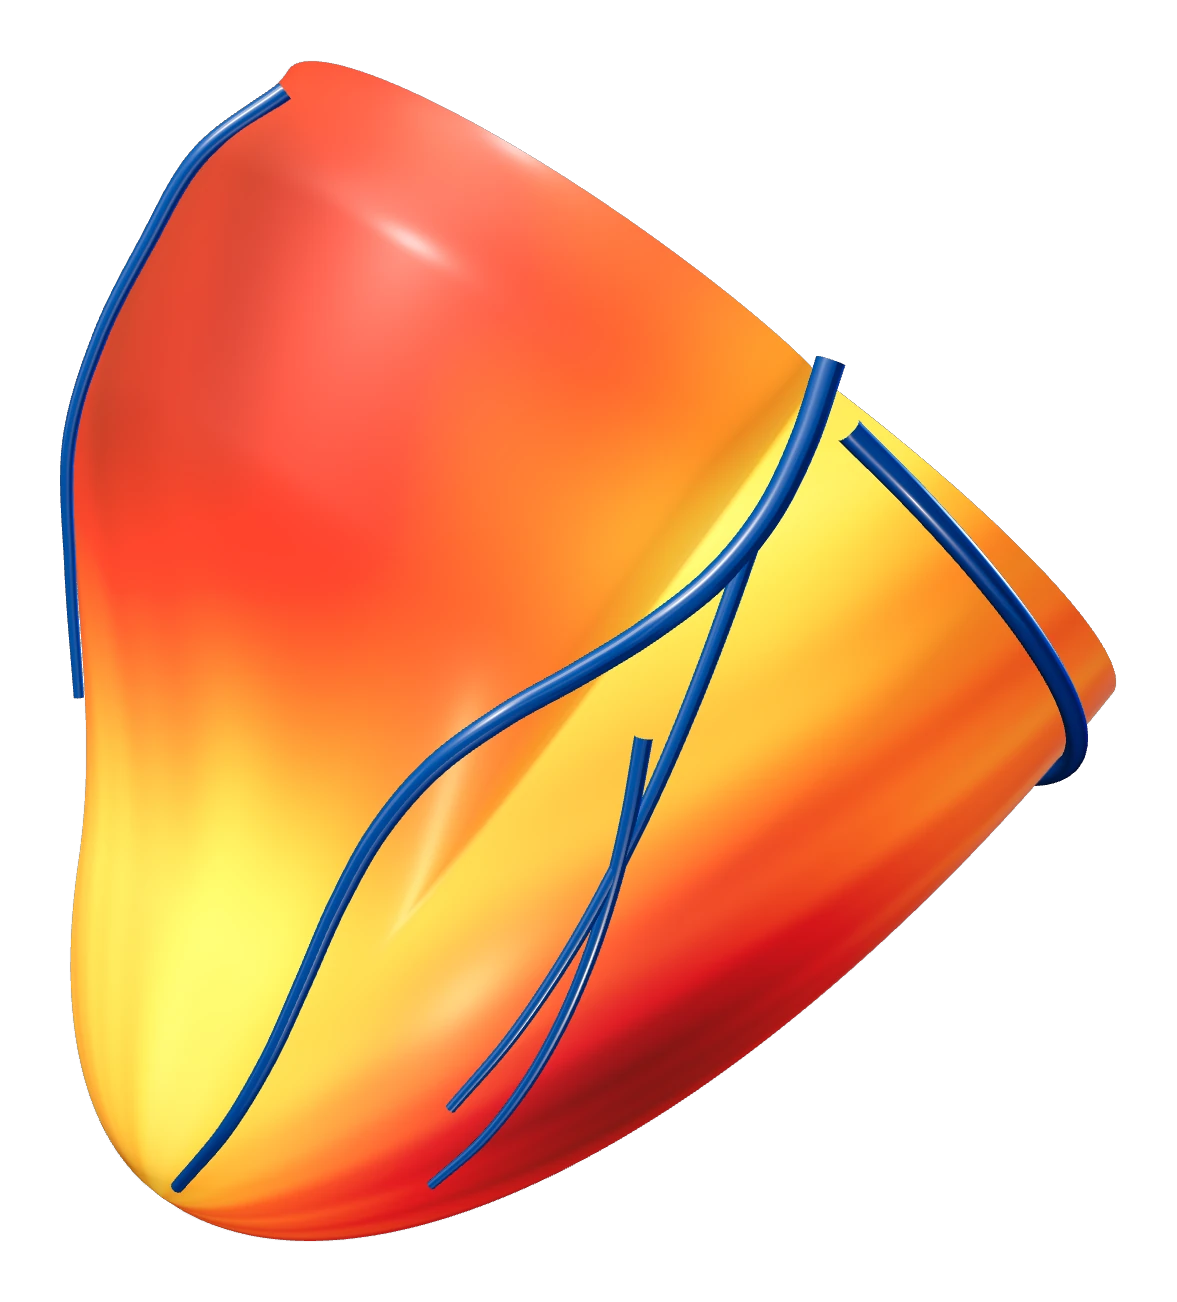
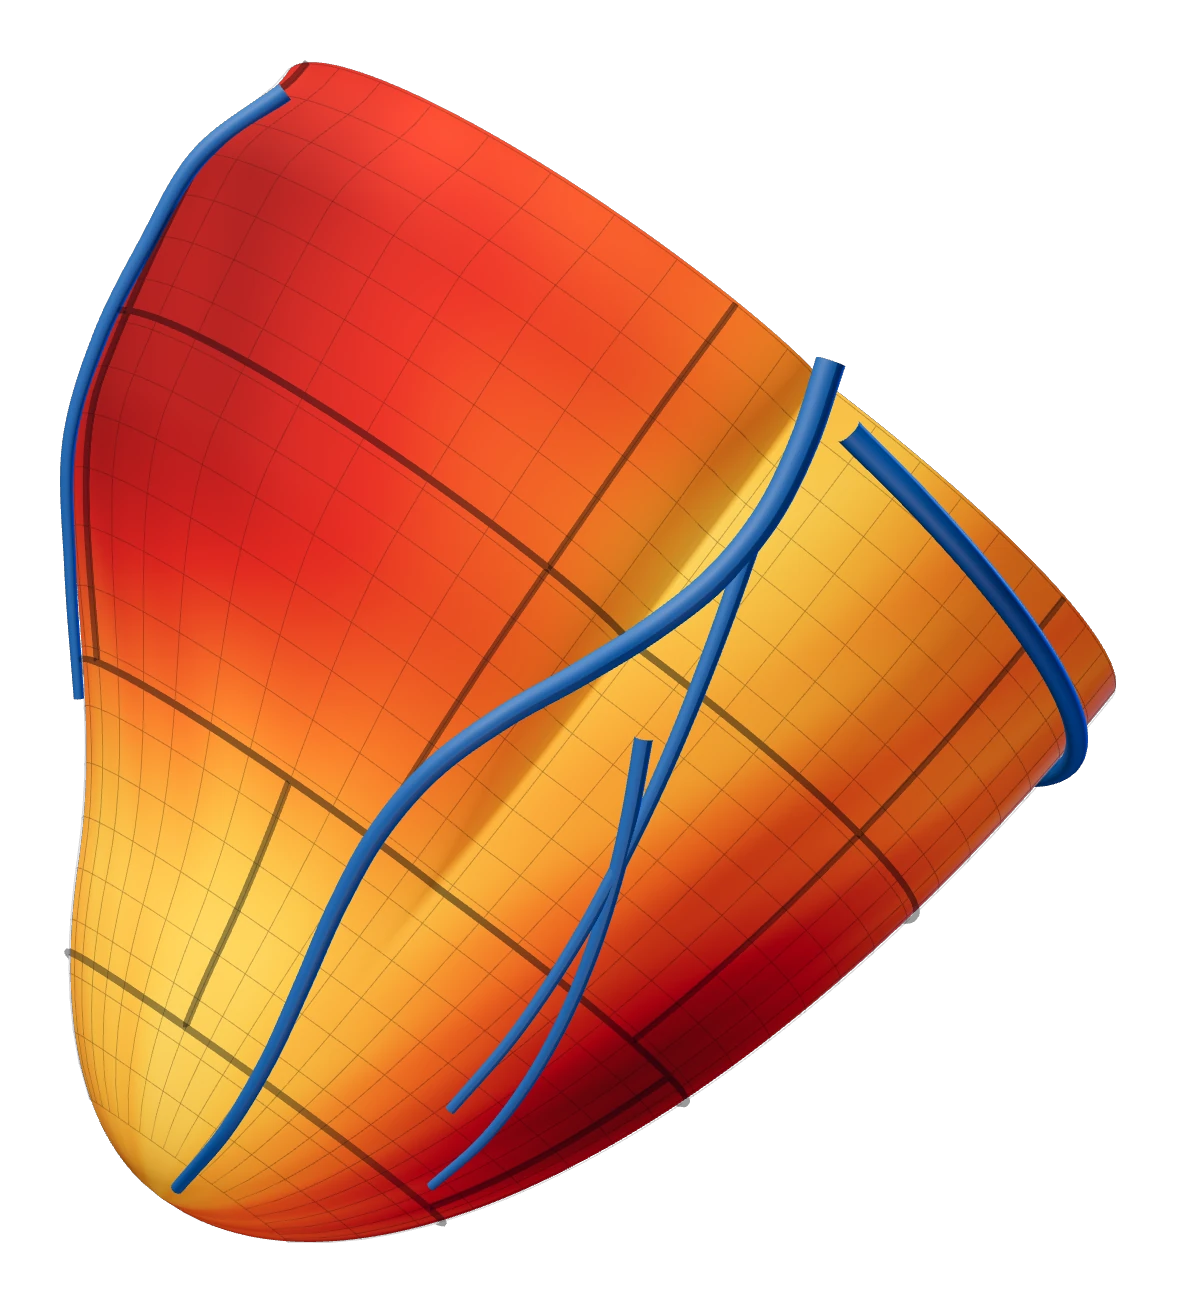
syntermed: smaller matte perfusion hero with 17-segment boundaries and display mesh; phone hero shown whole
Claude-Session: https://claude.ai/code/session_014388NGoYGzZRF6jn5fbCJw

diff --git a/_kit/home/syntermed/render.js b/_kit/home/syntermed/render.js
@@ -11,7 +11,7 @@ const PAGE=`<!doctype html><html><body style="margin:0;background:transparent">
 import * as THREE from 'three';
 const W=${W},H=${H};
 const rn=new THREE.WebGLRenderer({antialias:true,alpha:true,preserveDrawingBuffer:true,premultipliedAlpha:false});
-rn.setPixelRatio(1);rn.setSize(W,H);rn.setClearColor(0x000000,0);rn.toneMapping=THREE.ACESFilmicToneMapping;rn.toneMappingExposure=.9;
+rn.setPixelRatio(1);rn.setSize(W,H);rn.setClearColor(0x000000,0);rn.toneMapping=THREE.ACESFilmicToneMapping;rn.toneMappingExposure=.95;
 rn.outputColorSpace=THREE.SRGBColorSpace;document.body.appendChild(rn.domElement);
 const sc=new THREE.Scene();
 const pm=new THREE.PMREMGenerator(rn);const env=new THREE.Scene();env.background=new THREE.Color(0x03070d);
@@ -26,14 +26,14 @@ function n3(x,y,z){return Math.sin(x*3.1+y*1.7)*Math.cos(z*2.3-y*.9)*.5+Math.sin
 /* perfusion 0..1 at angle a (0 = anterior), height y (0 apex .. YB base) */
 const DEF_A=.75,DEF_Y=1.05;
 function perf(a,y){
-  let v=.73+.08*n3(Math.cos(a)*2,y,Math.sin(a)*2)+.05*Math.cos(a*2+.7)+.03*n3(Math.cos(a)*5,y*2.4,Math.sin(a)*5);
+  let v=.74+.06*n3(Math.cos(a)*2,y,Math.sin(a)*2)+.04*Math.cos(a*2+.7)+.025*n3(Math.cos(a)*5,y*2.4,Math.sin(a)*5);
   v-=.06*smooth(2.2,3.05,y);                      /* the base reads a little lower, as on real maps */
   let da=Math.atan2(Math.sin(a-DEF_A),Math.cos(a-DEF_A)),dy=y-DEF_Y;
   v-=.42*Math.exp(-(da*da)/(2*.55*.55)-(dy*dy)/(2*.8*.8));
   return Math.max(.05,Math.min(1,v));
 }
 /* nuclear "heat" scale: black - deep red - red - orange - gold - pale yellow - white */
-const ST=[[0,[8,2,4]],[.22,[90,6,10]],[.42,[196,30,18]],[.6,[240,110,20]],[.76,[250,196,30]],[.9,[255,236,140]],[1,[255,252,232]]];
+const ST=[[0,[10,4,6]],[.22,[78,12,14]],[.42,[168,38,22]],[.6,[214,102,28]],[.76,[228,168,44]],[.9,[238,206,112]],[1,[244,228,170]]];
 function heat(t){for(let i=1;i<ST.length;i++){if(t<=ST[i][0]){const a=ST[i-1],b=ST[i],k=(t-a[0])/(b[0]-a[0]);return a[1].map((c,j)=>Math.pow((c+(b[1][j]-c)*k)/255,2.2))}}return ST[ST.length-1][1].map(c=>Math.pow(c/255,2.2))}
 function shellR(y,A,B){const c=3.55,u=(c-y)/B;return A*Math.sqrt(Math.max(0,1-u*u))}
 /* a gentle anatomical asymmetry: the free wall bulges, the septum is flatter */
@@ -50,10 +50,10 @@ function surface(A,B,y0,inner){
   const g=new THREE.BufferGeometry();g.setAttribute('position',new THREE.Float32BufferAttribute(pos,3));g.setAttribute('color',new THREE.Float32BufferAttribute(col,3));g.setIndex(idx);g.computeVertexNormals();return g}
 const heart=new THREE.Group();
 const OA=1.42,OB=3.55,IA=.86,IB=2.85;
-const mOut=new THREE.MeshPhysicalMaterial({vertexColors:true,roughness:.58,metalness:0,clearcoat:.32,clearcoatRoughness:.3,sheen:.2,sheenColor:new THREE.Color('#ffe0a0'),envMapIntensity:.9});
+const mOut=new THREE.MeshPhysicalMaterial({vertexColors:true,roughness:.9,metalness:0,envMapIntensity:.55});
 heart.add(new THREE.Mesh(surface(OA,OB,0,false),mOut));
 /* emissive glow layer: the uptake itself seems to glow, as a SPECT render does */
-const glow=new THREE.Mesh(surface(OA*1.002,OB*1.001,0,false),new THREE.MeshBasicMaterial({vertexColors:true,transparent:true,opacity:.22,blending:THREE.AdditiveBlending,depthWrite:false}));heart.add(glow);
+const glow=new THREE.Mesh(surface(OA*1.002,OB*1.001,0,false),new THREE.MeshBasicMaterial({vertexColors:true,transparent:true,opacity:.1,blending:THREE.AdditiveBlending,depthWrite:false}));heart.add(glow);
 heart.add(new THREE.Mesh(surface(IA,IB,3.55-IB,true),new THREE.MeshPhysicalMaterial({vertexColors:true,roughness:.6,side:THREE.DoubleSide,envMapIntensity:.4})));
 /* the cut rim at the base, joining the two walls */
 (function(){const pos=[],col=[],idx=[];for(let i=0;i<=NA;i++){const a=i/NA*Math.PI*2,ro=shellR(YB,OA,OB)*asym(a),ri=shellR(YB,IA,IB)*asym(a),c=heat(perf(a,YB)).map(v=>v*.8);
@@ -62,7 +62,7 @@ heart.add(new THREE.Mesh(surface(IA,IB,3.55-IB,true),new THREE.MeshPhysicalMater
   const g=new THREE.BufferGeometry();g.setAttribute('position',new THREE.Float32BufferAttribute(pos,3));g.setAttribute('color',new THREE.Float32BufferAttribute(col,3));g.setIndex(idx);g.computeVertexNormals();
   heart.add(new THREE.Mesh(g,new THREE.MeshPhysicalMaterial({vertexColors:true,roughness:.5,side:THREE.DoubleSide})))})();
 /* coronary arteries on the epicardium, in the logo blue: the LAD down the anterior groove, the circumflex around the base, diagonals */
-const vMat=new THREE.MeshPhysicalMaterial({color:0x1557b0,roughness:.3,metalness:.1,clearcoat:1,clearcoatRoughness:.08,envMapIntensity:1.4});
+const vMat=new THREE.MeshPhysicalMaterial({color:0x1a5aa8,roughness:.6,metalness:0,envMapIntensity:.7});
 function on(a,y,lift){const r=(shellR(y,OA,OB)*asym(a)*(1+.42*rvw(a,y)))+lift;return new THREE.Vector3(Math.sin(a)*r,y,Math.cos(a)*r)}
 function vessel(pts,r0,r1){const cv=new THREE.CatmullRomCurve3(pts);const N=260,g=new THREE.TubeGeometry(cv,N,1,20,false);
   const p=g.attributes.position,c=new THREE.Vector3();
@@ -74,6 +74,19 @@ vessel(Array.from({length:12},(_,k)=>on(AL+.12+k*.22,2.97-k*.03,.035)),.042,.026
 vessel(Array.from({length:8},(_,k)=>on(AL+.08+k*.07,2.6-k*.27,.03)),.03,.016);
 vessel(Array.from({length:8},(_,k)=>on(AL+.18+k*.1,1.9-k*.2,.03)),.028,.014);
 vessel(Array.from({length:7},(_,k)=>on(AL-1.2-k*.05,2.9-k*.3,.03)),.03,.016);
+
+/* the 17-segment model drawn on the surface: rings between basal / mid / apical / apex, and the segment meridians */
+const bMat=new THREE.MeshBasicMaterial({color:0x07111f,transparent:true,opacity:.4});
+function onS(a,y,lift){const r=(shellR(y,OA,OB)*asym(a)*(1+.42*rvw(a,y)))+lift;return new THREE.Vector3(Math.sin(a)*r,y,Math.cos(a)*r)}
+function line(pts,rad,mat,closed){const cv=new THREE.CatmullRomCurve3(pts,closed);heart.add(new THREE.Mesh(new THREE.TubeGeometry(cv,Math.max(64,pts.length*3),rad,6,closed),mat))}
+[2.1,1.2,.45].forEach(y=>line(Array.from({length:180},(_,k)=>onS(k/180*Math.PI*2,y,.012)),.011,bMat,true));
+for(let k=0;k<6;k++){const a=k*Math.PI/3+Math.PI/6;line(Array.from({length:30},(_,i)=>onS(a,1.2+i/29*(3.04-1.2),.012)),.011,bMat,false)}
+for(let k=0;k<4;k++){const a=k*Math.PI/2+Math.PI/4;line(Array.from({length:20},(_,i)=>onS(a,.45+i/19*(1.2-.45),.012)),.011,bMat,false)}
+/* a fine display mesh, as the software's 3D surface view shows */
+(function(){const P=[],NM=48,NR=22;
+  for(let k=0;k<NM;k++){const a=k/NM*Math.PI*2;for(let i=0;i<40;i++){const y0=.12+i/40*(3.04-.12),y1=.12+(i+1)/40*(3.04-.12);P.push(onS(a,y0,.006),onS(a,y1,.006))}}
+  for(let j=0;j<NR;j++){const y=.12+j/(NR-1)*(3.04-.12);for(let k=0;k<120;k++){P.push(onS(k/120*Math.PI*2,y,.006),onS((k+1)/120*Math.PI*2,y,.006))}}
+  const g=new THREE.BufferGeometry().setFromPoints(P);heart.add(new THREE.LineSegments(g,new THREE.LineBasicMaterial({color:0x07111f,transparent:true,opacity:.16})))})();
 /* pose: apex down and toward the viewer's left, base tilted up and away, so the open base just shows */
 heart.position.y=-1.75;const holder=new THREE.Group();holder.add(heart);sc.add(holder);
 holder.rotation.set(.16,0,0);holder.rotateOnWorldAxis(new THREE.Vector3(0,0,1),-.62);holder.rotateOnWorldAxis(new THREE.Vector3(0,1,0),.5);

diff --git a/_kit/src/syntermed.src.html b/_kit/src/syntermed.src.html
@@ -823,6 +823,10 @@ div.mh-row{grid-template-columns:minmax(0,4fr) minmax(0,3fr) minmax(0,5fr) 24px}
 .pipe .tg b{color:var(--accL)}
 .pipe .tg i{color:var(--blL)}
 .mh-row .mh-sum:empty{opacity:0}
+/* phones: the scrim starts below the heart, just above the eyebrow, so the subject shows whole (CW keeps the text band clear) */
+@media (max-width:860px){.hero::before{background:linear-gradient(180deg,rgba(var(--inkr),0) 0%,rgba(var(--inkr),0) 36%,rgba(var(--inkr),.9) 43%,rgba(var(--inkr),.95) 72%,var(--ink) 100%)}}
+@media (max-width:860px){#field{-webkit-mask-image:linear-gradient(180deg,#000 0,#000 38svh,transparent 43svh);mask-image:linear-gradient(180deg,#000 0,#000 38svh,transparent 43svh)}}
+@media (max-width:860px){.fieldbg{background:#07111f}}
 </style>
 </head>
 </head>
@@ -1095,7 +1099,7 @@ function unmask(s){if(!s)return;(s.masks||[]).forEach(function(m){m.style.overfl
    top band and the ink takes over before the text (CW). ================= */
 var field=(function(){
   var cv=$("#field"),c=cv.getContext("2d"),dpr=1,w=0,h=0,running=false,raf=0,t0=performance.now(),shown=false;
-  var IN={v:1},dim=1,dimT=1,SP={v:0},G=null,img=new Image(),ok=false,AR=1177/1302;
+  var IN={v:1},dim=1,dimT=1,SP={v:0},G=null,img=new Image(),ok=false,AR=1177/1303;
   var BG="#07111f";
   img.decoding="async";img.onload=function(){ok=true;if(!running)frame(true)};img.src="hero.webp";
   function sm(x){x=x<0?0:x>1?1:x;return x*x*(3-2*x)}
@@ -1114,8 +1118,9 @@ var field=(function(){
       return {mob:1,side:side,cw:cw,U:U,ih:ih,iw:iw,kx:w*.5,ky:top+ih/2,bh:U};
     }
     var tr=textRight()||side+cw*.46,x0=Math.max(tr+110,side+cw*.5),x1=w-side;
-    var top=hd+Math.max(28,h*.05),bot=h-Math.max(36,h*.06);
-    var ih=Math.max(40,Math.min(bot-top,(x1-x0)/AR,h*.78)),iw=ih*AR;
+    var top=hd+Math.max(28,h*.05),bot=h-Math.max(80,h*.09);
+    /* ~70% of the open area (coordinator review): whole, with clear ink below it and well clear of the H1 */
+    var ih=Math.max(40,Math.min((bot-top)*.78,(x1-x0)/AR*.8,h*.56)),iw=ih*AR;
     /* centre of the open area, pulled toward ~68% of the width when there is room */
     var kx=Math.max(x0+iw/2,Math.min(x1-iw/2,side+cw*.7)),ky=top+(bot-top)/2;
     return {mob:0,side:side,cw:cw,ih:ih,iw:iw,kx:kx,ky:ky,bh:h,x0:x0};
@@ -1146,7 +1151,7 @@ var field=(function(){
         var lv=c.createLinearGradient(0,0,G.x0+60,0);[[0,.5],[.3,.42],[.55,.26],[.75,.12],[.9,.04],[1,0]].forEach(function(q){lv.addColorStop(q[0],"rgba(4,10,19,"+q[1]+")")});c.fillStyle=lv;c.fillRect(0,0,w,h);
         var bv=c.createLinearGradient(0,h*.72,0,h);bv.addColorStop(0,"rgba(7,17,31,0)");bv.addColorStop(1,"rgba(7,17,31,.7)");c.fillStyle=bv;c.fillRect(0,h*.72,w,h*.28+1);
       }else{
-        var mv=c.createLinearGradient(0,G.bh-56,0,G.bh+2);mv.addColorStop(0,"rgba(7,17,31,0)");mv.addColorStop(1,"rgba(7,17,31,1)");c.fillStyle=mv;c.fillRect(0,G.bh-56,w,58);
+        var mv=c.createLinearGradient(0,G.bh-150,0,G.bh+2);[[0,0],[.3,.12],[.55,.4],[.8,.78],[1,1]].forEach(function(q){mv.addColorStop(q[0],"rgba(7,17,31,"+q[1]+")")});c.fillStyle=mv;c.fillRect(0,G.bh-150,w,152);
         c.fillStyle=BG;c.fillRect(0,G.bh+2,w,h-G.bh);
       }
       if(!shown){shown=true;requestAnimationFrame(function(){requestAnimationFrame(function(){cv.classList.add("ready")})})}

diff --git a/syntermed/index.html b/syntermed/index.html
@@ -830,6 +830,10 @@ div.mh-row{grid-template-columns:minmax(0,4fr) minmax(0,3fr) minmax(0,5fr) 24px}
 .pipe .tg b{color:var(--accL)}
 .pipe .tg i{color:var(--blL)}
 .mh-row .mh-sum:empty{opacity:0}
+/* phones: the scrim starts below the heart, just above the eyebrow, so the subject shows whole (CW keeps the text band clear) */
+@media (max-width:860px){.hero::before{background:linear-gradient(180deg,rgba(var(--inkr),0) 0%,rgba(var(--inkr),0) 36%,rgba(var(--inkr),.9) 43%,rgba(var(--inkr),.95) 72%,var(--ink) 100%)}}
+@media (max-width:860px){#field{-webkit-mask-image:linear-gradient(180deg,#000 0,#000 38svh,transparent 43svh);mask-image:linear-gradient(180deg,#000 0,#000 38svh,transparent 43svh)}}
+@media (max-width:860px){.fieldbg{background:#07111f}}
 </style>
 </head>
 </head>
@@ -1662,7 +1666,7 @@ function unmask(s){if(!s)return;(s.masks||[]).forEach(function(m){m.style.overfl
    top band and the ink takes over before the text (CW). ================= */
 var field=(function(){
   var cv=$("#field"),c=cv.getContext("2d"),dpr=1,w=0,h=0,running=false,raf=0,t0=performance.now(),shown=false;
-  var IN={v:1},dim=1,dimT=1,SP={v:0},G=null,img=new Image(),ok=false,AR=1177/1302;
+  var IN={v:1},dim=1,dimT=1,SP={v:0},G=null,img=new Image(),ok=false,AR=1177/1303;
   var BG="#07111f";
   img.decoding="async";img.onload=function(){ok=true;if(!running)frame(true)};img.src="hero.webp";
   function sm(x){x=x<0?0:x>1?1:x;return x*x*(3-2*x)}
@@ -1681,8 +1685,9 @@ var field=(function(){
       return {mob:1,side:side,cw:cw,U:U,ih:ih,iw:iw,kx:w*.5,ky:top+ih/2,bh:U};
     }
     var tr=textRight()||side+cw*.46,x0=Math.max(tr+110,side+cw*.5),x1=w-side;
-    var top=hd+Math.max(28,h*.05),bot=h-Math.max(36,h*.06);
-    var ih=Math.max(40,Math.min(bot-top,(x1-x0)/AR,h*.78)),iw=ih*AR;
+    var top=hd+Math.max(28,h*.05),bot=h-Math.max(80,h*.09);
+    /* ~70% of the open area (coordinator review): whole, with clear ink below it and well clear of the H1 */
+    var ih=Math.max(40,Math.min((bot-top)*.78,(x1-x0)/AR*.8,h*.56)),iw=ih*AR;
     /* centre of the open area, pulled toward ~68% of the width when there is room */
     var kx=Math.max(x0+iw/2,Math.min(x1-iw/2,side+cw*.7)),ky=top+(bot-top)/2;
     return {mob:0,side:side,cw:cw,ih:ih,iw:iw,kx:kx,ky:ky,bh:h,x0:x0};
@@ -1713,7 +1718,7 @@ var field=(function(){
         var lv=c.createLinearGradient(0,0,G.x0+60,0);[[0,.5],[.3,.42],[.55,.26],[.75,.12],[.9,.04],[1,0]].forEach(function(q){lv.addColorStop(q[0],"rgba(4,10,19,"+q[1]+")")});c.fillStyle=lv;c.fillRect(0,0,w,h);
         var bv=c.createLinearGradient(0,h*.72,0,h);bv.addColorStop(0,"rgba(7,17,31,0)");bv.addColorStop(1,"rgba(7,17,31,.7)");c.fillStyle=bv;c.fillRect(0,h*.72,w,h*.28+1);
       }else{
-        var mv=c.createLinearGradient(0,G.bh-56,0,G.bh+2);mv.addColorStop(0,"rgba(7,17,31,0)");mv.addColorStop(1,"rgba(7,17,31,1)");c.fillStyle=mv;c.fillRect(0,G.bh-56,w,58);
+        var mv=c.createLinearGradient(0,G.bh-150,0,G.bh+2);[[0,0],[.3,.12],[.55,.4],[.8,.78],[1,1]].forEach(function(q){mv.addColorStop(q[0],"rgba(7,17,31,"+q[1]+")")});c.fillStyle=mv;c.fillRect(0,G.bh-150,w,152);
         c.fillStyle=BG;c.fillRect(0,G.bh+2,w,h-G.bh);
       }
       if(!shown){shown=true;requestAnimationFrame(function(){requestAnimationFrame(function(){cv.classList.add("ready")})})}

diff --git a/_kit/home/syntermed/field.js b/_kit/home/syntermed/field.js
@@ -7,7 +7,7 @@
    top band and the ink takes over before the text (CW). ================= */
 var field=(function(){
   var cv=$("#field"),c=cv.getContext("2d"),dpr=1,w=0,h=0,running=false,raf=0,t0=performance.now(),shown=false;
-  var IN={v:1},dim=1,dimT=1,SP={v:0},G=null,img=new Image(),ok=false,AR=1177/1302;
+  var IN={v:1},dim=1,dimT=1,SP={v:0},G=null,img=new Image(),ok=false,AR=1177/1303;
   var BG="#07111f";
   img.decoding="async";img.onload=function(){ok=true;if(!running)frame(true)};img.src="hero.webp";
   function sm(x){x=x<0?0:x>1?1:x;return x*x*(3-2*x)}
@@ -26,8 +26,9 @@ var field=(function(){
       return {mob:1,side:side,cw:cw,U:U,ih:ih,iw:iw,kx:w*.5,ky:top+ih/2,bh:U};
     }
     var tr=textRight()||side+cw*.46,x0=Math.max(tr+110,side+cw*.5),x1=w-side;
-    var top=hd+Math.max(28,h*.05),bot=h-Math.max(36,h*.06);
-    var ih=Math.max(40,Math.min(bot-top,(x1-x0)/AR,h*.78)),iw=ih*AR;
+    var top=hd+Math.max(28,h*.05),bot=h-Math.max(80,h*.09);
+    /* ~70% of the open area (coordinator review): whole, with clear ink below it and well clear of the H1 */
+    var ih=Math.max(40,Math.min((bot-top)*.78,(x1-x0)/AR*.8,h*.56)),iw=ih*AR;
     /* centre of the open area, pulled toward ~68% of the width when there is room */
     var kx=Math.max(x0+iw/2,Math.min(x1-iw/2,side+cw*.7)),ky=top+(bot-top)/2;
     return {mob:0,side:side,cw:cw,ih:ih,iw:iw,kx:kx,ky:ky,bh:h,x0:x0};
@@ -58,7 +59,7 @@ var field=(function(){
         var lv=c.createLinearGradient(0,0,G.x0+60,0);[[0,.5],[.3,.42],[.55,.26],[.75,.12],[.9,.04],[1,0]].forEach(function(q){lv.addColorStop(q[0],"rgba(4,10,19,"+q[1]+")")});c.fillStyle=lv;c.fillRect(0,0,w,h);
         var bv=c.createLinearGradient(0,h*.72,0,h);bv.addColorStop(0,"rgba(7,17,31,0)");bv.addColorStop(1,"rgba(7,17,31,.7)");c.fillStyle=bv;c.fillRect(0,h*.72,w,h*.28+1);
       }else{
-        var mv=c.createLinearGradient(0,G.bh-56,0,G.bh+2);mv.addColorStop(0,"rgba(7,17,31,0)");mv.addColorStop(1,"rgba(7,17,31,1)");c.fillStyle=mv;c.fillRect(0,G.bh-56,w,58);
+        var mv=c.createLinearGradient(0,G.bh-150,0,G.bh+2);[[0,0],[.3,.12],[.55,.4],[.8,.78],[1,1]].forEach(function(q){mv.addColorStop(q[0],"rgba(7,17,31,"+q[1]+")")});c.fillStyle=mv;c.fillRect(0,G.bh-150,w,152);
         c.fillStyle=BG;c.fillRect(0,G.bh+2,w,h-G.bh);
       }
       if(!shown){shown=true;requestAnimationFrame(function(){requestAnimationFrame(function(){cv.classList.add("ready")})})}

diff --git a/_kit/home/syntermed/extra.css b/_kit/home/syntermed/extra.css
@@ -184,3 +184,7 @@ div.mh-row{grid-template-columns:minmax(0,4fr) minmax(0,3fr) minmax(0,5fr) 24px}
 .pipe .tg b{color:var(--accL)}
 .pipe .tg i{color:var(--blL)}
 .mh-row .mh-sum:empty{opacity:0}
+/* phones: the scrim starts below the heart, just above the eyebrow, so the subject shows whole (CW keeps the text band clear) */
+@media (max-width:860px){.hero::before{background:linear-gradient(180deg,rgba(var(--inkr),0) 0%,rgba(var(--inkr),0) 36%,rgba(var(--inkr),.9) 43%,rgba(var(--inkr),.95) 72%,var(--ink) 100%)}}
+@media (max-width:860px){#field{-webkit-mask-image:linear-gradient(180deg,#000 0,#000 38svh,transparent 43svh);mask-image:linear-gradient(180deg,#000 0,#000 38svh,transparent 43svh)}}
+@media (max-width:860px){.fieldbg{background:#07111f}}
